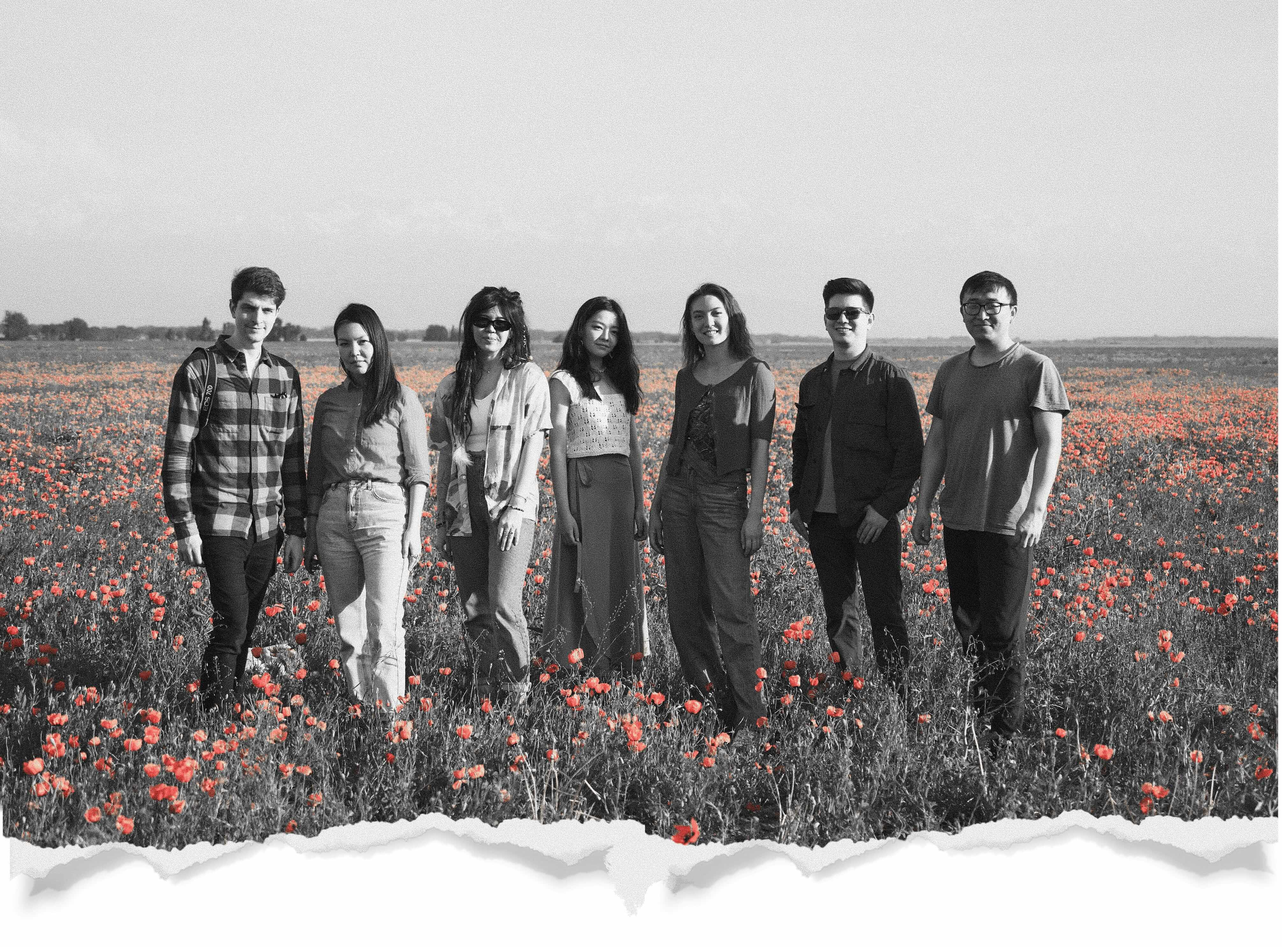
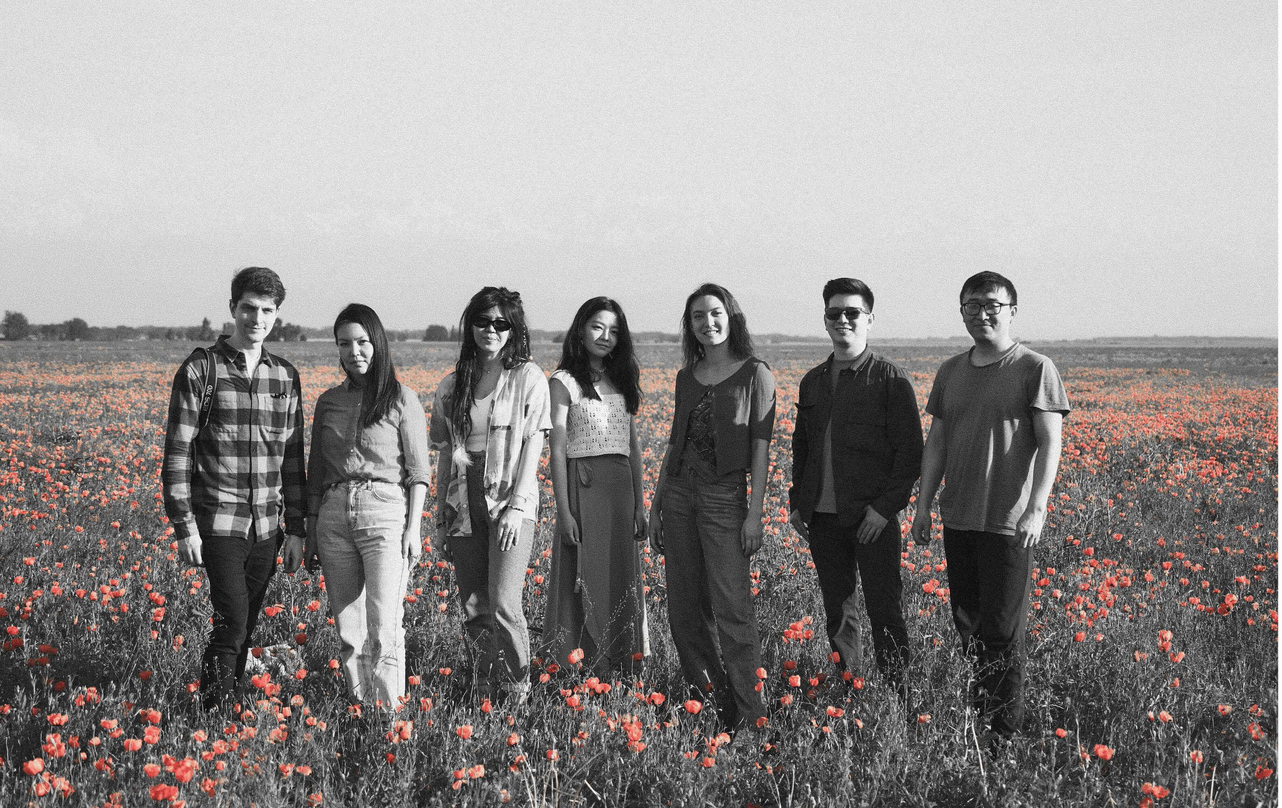
Add more content to website

diff --git a/app/routes/about-us.tsx b/app/routes/about-us.tsx
@@ -1,11 +1,19 @@
 import {ParallaxBanner} from 'react-scroll-parallax'
-import {teamPhotoJpg} from '~/assets/www'
-import {Hero} from '~/components'
+import {bgMapJpg} from '~/assets/game'
+import {
+  paperRipPng,
+  polaroidAnelPng,
+  polaroidAruzhanPng,
+  polaroidInzhuPng,
+  polaroidNadiraPng,
+  teamPhotoJpg,
+} from '~/assets/www'
+import {Card, Hero} from '~/components'
 
 export default function AboutUs() {
   return (
-    <section>
-      <div className="absolute inset-0 -z-10">
+    <main>
+      <div className="absolute inset-0 -z-10 max-h-[60rem]">
         <ParallaxBanner
           className="h-full"
           layers={[
@@ -16,16 +24,106 @@ export default function AboutUs() {
                   style={{backgroundImage: `url(${teamPhotoJpg})`}}
                 />
               ),
-              speed: 16,
+              speed: -4,
             },
           ]}
         />
         <div className="absolute inset-0 bg-black/50" />
       </div>
 
-      <Hero className="pb-96" title="Команда">
-        <p>TODO</p>
-      </Hero>
-    </section>
+      <div className="relative z-10">
+        <Hero className="pt-96" title="Команда" />
+
+        <img
+          className="absolute bottom-0 w-full translate-y-[54%]"
+          src={paperRipPng}
+        />
+      </div>
+
+      <section className="relative flex flex-col pt-28 pb-[26rem]">
+        <div
+          className="absolute inset-0 bg-cover bg-no-repeat"
+          style={{backgroundImage: `url(${bgMapJpg})`}}
+        />
+        <div className="absolute inset-0 bg-black/50" />
+
+        <div className="flex flex-col space-y-8">
+          <Card className="self-center">
+            <div className="grid grid-flow-row gap-4 lg:grid-flow-col">
+              <img src={polaroidAnelPng} alt="Фотография Анель" />
+
+              <div>
+                <h2 className="mb-0">Анель Молдахметова</h2>
+                <h3>Креативное продюссирование</h3>
+                <p>
+                  Для меня это проект, который позволяет мне упаковать и
+                  систематизировать колоссальный опыт инициативы Архкод Алматы,
+                  который мы готовы передать общественности. Это смелый
+                  эксперимент и сотворчество, когда каждый участник команды в
+                  нём растет.
+                </p>
+              </div>
+            </div>
+          </Card>
+
+          <Card className="self-center">
+            <div className="grid grid-flow-row gap-4 lg:grid-flow-col">
+              <div>
+                <h2 className="mb-0">Инжу Сыдыкова</h2>
+                <h3>Сценарий, архитектура игры</h3>
+                <p>
+                  Мой интерес зажигают вопросы о том, что создает любимую сердцу
+                  атмосферу нашего города, какая архитектура представляет
+                  ценность как наследие, как формируется идентичность места
+                  через его память. Кроме того, это очень ёмкий и веселый
+                  проект, позволивший мне в незнакомом ранее формате применить
+                  знания и навыки, полученные при изучении разных
+                  специальностей.
+                </p>
+              </div>
+
+              <img src={polaroidInzhuPng} alt="Фотография Инжу" />
+            </div>
+          </Card>
+
+          <Card className="self-center">
+            <div className="grid grid-flow-row gap-4 lg:grid-flow-col">
+              <img src={polaroidNadiraPng} alt="Фотография Надиры" />
+
+              <div>
+                <h2 className="mb-0">Надира Жадыраева</h2>
+                <h3>Визуальный нарратив</h3>
+                <p>
+                  С Archcode мы уже работали над проектом Koktem Shaqyrady/The
+                  Spring is Calling, завершив который почти сразу согласилась на
+                  новый. Эти проекты уникальны не только результатом, но и
+                  невероятными возможностями в процессе, где участники ничем не
+                  ограничены и могут попробовать себя в любых ролях. :)
+                </p>
+              </div>
+            </div>
+          </Card>
+
+          <Card className="self-center">
+            <div className="grid grid-flow-row gap-4 lg:grid-flow-col">
+              <div>
+                <h2 className="mb-0">Аружан Шотай</h2>
+                <h3>Визуальный нарратив</h3>
+                <p>
+                  Это один из самых уникальных и интересных проектов про наш
+                  город, его архитектурное наследие и всех, кому оно
+                  принадлежит. Я рада быть частью очередного значимого проекта
+                  от ArchCode, за все время создания которого творческий
+                  потенциал каждого из нас был раскрыт и направлен в общее
+                  благое дело.
+                </p>
+              </div>
+
+              <img src={polaroidAruzhanPng} alt="Фотография Аружан" />
+            </div>
+          </Card>
+        </div>
+      </section>
+    </main>
   )
 }

diff --git a/app/routes/about-bot.tsx b/app/routes/about-bot.tsx
@@ -1,10 +1,12 @@
+import {TelegramLogo as TelegramLogoIcon} from 'phosphor-react'
 import {ParallaxBanner} from 'react-scroll-parallax'
 import {bgAirportJpg} from '~/assets/game'
+import {telegramBotQrCodePng} from '~/assets/www'
 import {Hero} from '~/components'
 
 export default function AboutBot() {
   return (
-    <section>
+    <main>
       <div className="absolute inset-0 -z-10">
         <ParallaxBanner
           className="h-full"
@@ -12,18 +14,20 @@ export default function AboutBot() {
             {
               children: (
                 <div
-                  className="h-full w-full bg-cover bg-[position:center_top] bg-no-repeat"
+                  className="h-full w-full bg-cover bg-[position:center_top] bg-no-repeat lg:bg-[length:100%_auto] lg:bg-[position:center_top_-30rem]"
                   style={{backgroundImage: `url(${bgAirportJpg})`}}
                 />
               ),
-              speed: 16,
+              speed: -16,
             },
           ]}
         />
         <div className="absolute inset-0 bg-black/50" />
       </div>
 
-      <Hero title="Телеграм-бот">
+      <Hero
+        title="Телеграм-бот"
+        image={<img className="max-h-[18rem]" src={telegramBotQrCodePng} />}>
         <p>
           Это обучающий бот, который даёт представление об общей ситуации в
           области сохранения архитектурного наследия в Казахстане. Раздел
@@ -40,13 +44,12 @@ export default function AboutBot() {
         </p>
 
         <p>
-          <a
-            className="btn-invert btn btn-outline"
-            href="https://t.me/archcode_bot">
+          <a className="btn-invert btn gap-2" href="https://t.me/archcode_bot">
+            <TelegramLogoIcon className="text-xl" weight="fill" />
             Перейти в Телеграм
           </a>
         </p>
       </Hero>
-    </section>
+    </main>
   )
 }

diff --git a/app/routes/about-novel.tsx b/app/routes/about-novel.tsx
@@ -6,7 +6,7 @@ import {Card, FenceSection, Hero} from '~/components'
 
 export default function AboutNovel() {
   return (
-    <section>
+    <main>
       <div className="absolute inset-0 -z-10">
         <ParallaxBanner
           className="h-full"
@@ -14,18 +14,20 @@ export default function AboutNovel() {
             {
               children: (
                 <div
-                  className="h-full w-full bg-cover bg-[position:center_top] bg-no-repeat"
+                  className="h-full w-full bg-cover bg-[position:center_top] bg-no-repeat lg:bg-[length:100%_auto]"
                   style={{backgroundImage: `url(${bgAskBeforeJpg})`}}
                 />
               ),
-              speed: 16,
+              speed: -16,
             },
           ]}
         />
         <div className="absolute inset-0 bg-black/50" />
       </div>
 
-      <Hero title="Визуальная новелла" image={phoneSwirlPng}>
+      <Hero
+        title="Визуальная новелла"
+        image={<img className="max-h-[36rem]" src={phoneSwirlPng} />}>
         <p>
           Новелла «Снести нельзя оставить» повествует о четырёх героях, которые
           напоминают характерных персонажей типичного постсоветского города. Их
@@ -97,6 +99,6 @@ export default function AboutNovel() {
           </div>
         </div>
       </FenceSection>
-    </section>
+    </main>
   )
 }

diff --git a/app/assets/www/index.ts b/app/assets/www/index.ts
@@ -4,9 +4,15 @@ import fenceBottomPng from './fence-bottom.png'
 import fenceMiddlePng from './fence-middle.png'
 import fenceTopPng from './fence-top.png'
 import gameLogoPng from './game-logo.png'
+import paperRipPng from './paper-rip.png'
 import phoneScreenshotPng from './phone-screenshot.png'
 import phoneSwirlPng from './phone-swirl.png'
+import polaroidAnelPng from './polaroid-anel.png'
+import polaroidAruzhanPng from './polaroid-aruzhan.png'
+import polaroidInzhuPng from './polaroid-inzhu.png'
+import polaroidNadiraPng from './polaroid-nadira.png'
 import teamPhotoJpg from './team-photo.jpg'
+import telegramBotQrCodePng from './telegram-bot-qr-code.png'
 
 export {
   archcodeLogoPng,
@@ -14,8 +20,14 @@ export {
   fenceMiddlePng,
   fenceTopPng,
   gameLogoPng,
+  paperRipPng,
   phoneScreenshotPng,
   phoneSwirlPng,
+  polaroidAnelPng,
+  polaroidAruzhanPng,
+  polaroidInzhuPng,
+  polaroidNadiraPng,
   teamPhotoJpg,
+  telegramBotQrCodePng,
 }
 // codegen:end

diff --git a/app/components/Hero.tsx b/app/components/Hero.tsx
@@ -4,8 +4,8 @@ import {Reveal} from '~/lib/components'
 
 export interface HeroProps extends React.ComponentPropsWithoutRef<'section'> {
   title: string
-  image?: string | null
-  children: React.ReactNode
+  image?: React.ReactNode
+  children?: React.ReactNode
 }
 
 export function Hero({
@@ -17,7 +17,7 @@ export function Hero({
 }: HeroProps) {
   return (
     <Reveal asChild>
-      <section
+      <div
         className={clsx(
           'container mx-auto grid grid-flow-row justify-items-center gap-8 p-8 pb-16 lg:grid-flow-col lg:justify-items-start',
           className,
@@ -31,8 +31,8 @@ export function Hero({
           {children}
         </div>
 
-        {image && <img className="max-h-[36rem]" src={image} />}
-      </section>
+        {image}
+      </div>
     </Reveal>
   )
 }

diff --git a/app/components/FenceSection.tsx b/app/components/FenceSection.tsx
@@ -8,7 +8,7 @@ export interface FenceSectionProps {
 
 export function FenceSection({children}: FenceSectionProps) {
   return (
-    <section className="relative flex flex-col pt-28 pb-[26rem]">
+    <section className="relative flex flex-col overflow-x-hidden pt-28 pb-[26rem]">
       <Reveal className="absolute inset-0 -ml-[10%] flex w-[120%] flex-col">
         <img src={fenceTopPng} />
         <div

diff --git a/app/components/Footer.tsx b/app/components/Footer.tsx
@@ -29,7 +29,7 @@ export function Footer() {
             <NavLink
               className="btn-invert btn btn-sm gap-2 normal-case"
               to="/play">
-              <GameControllerIcon />
+              <GameControllerIcon weight="fill" />
               Играть
             </NavLink>
             <NavLink className="link link-hover" to="/">
